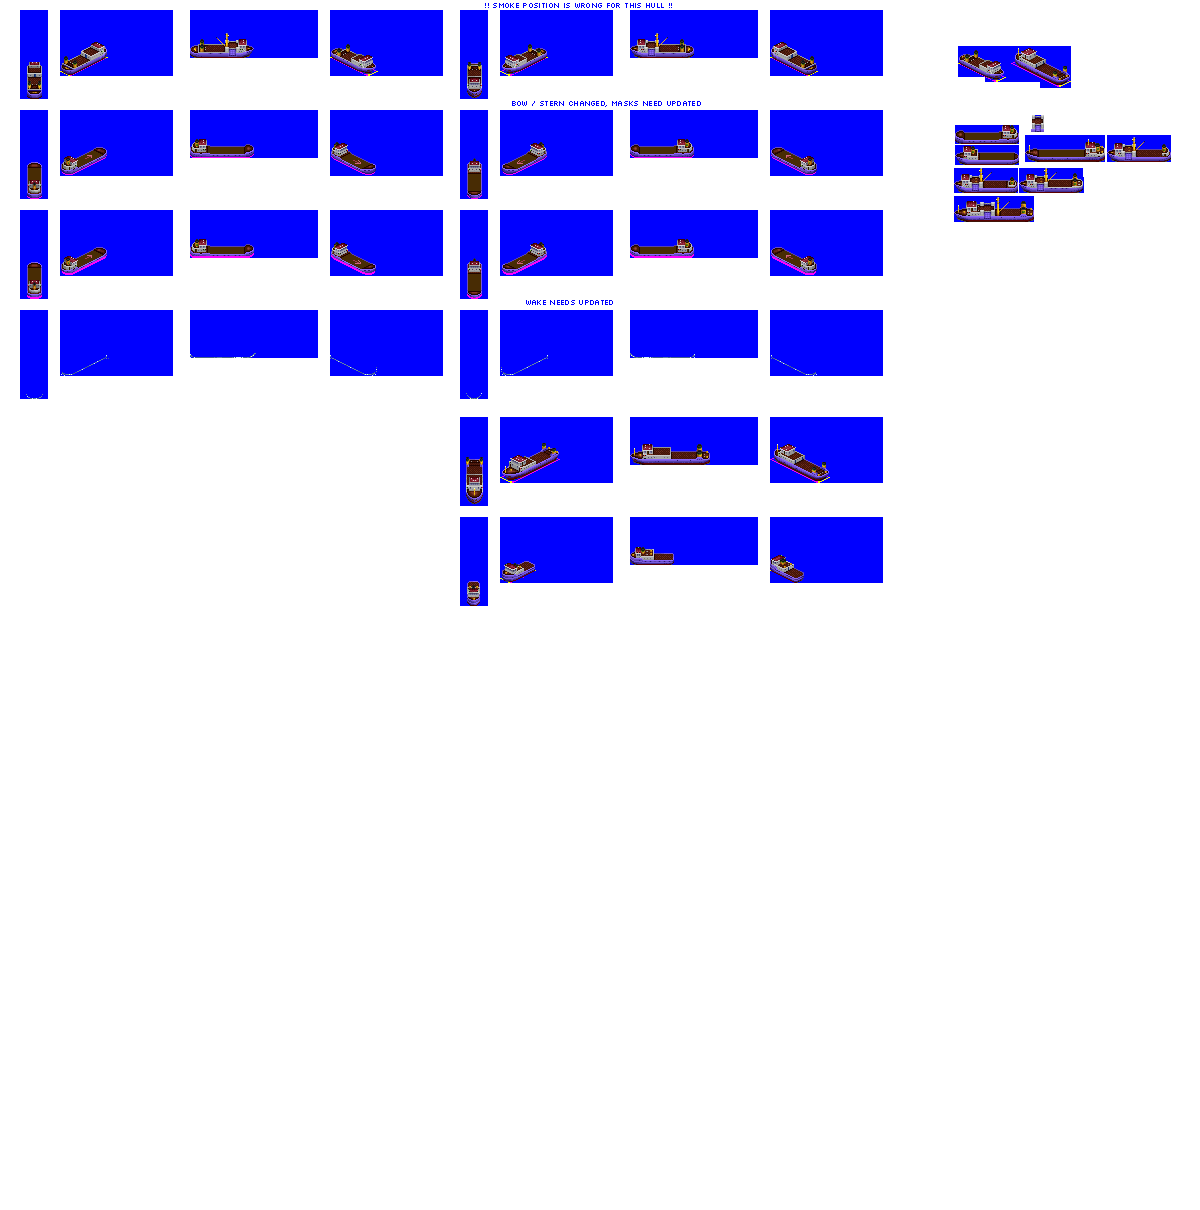
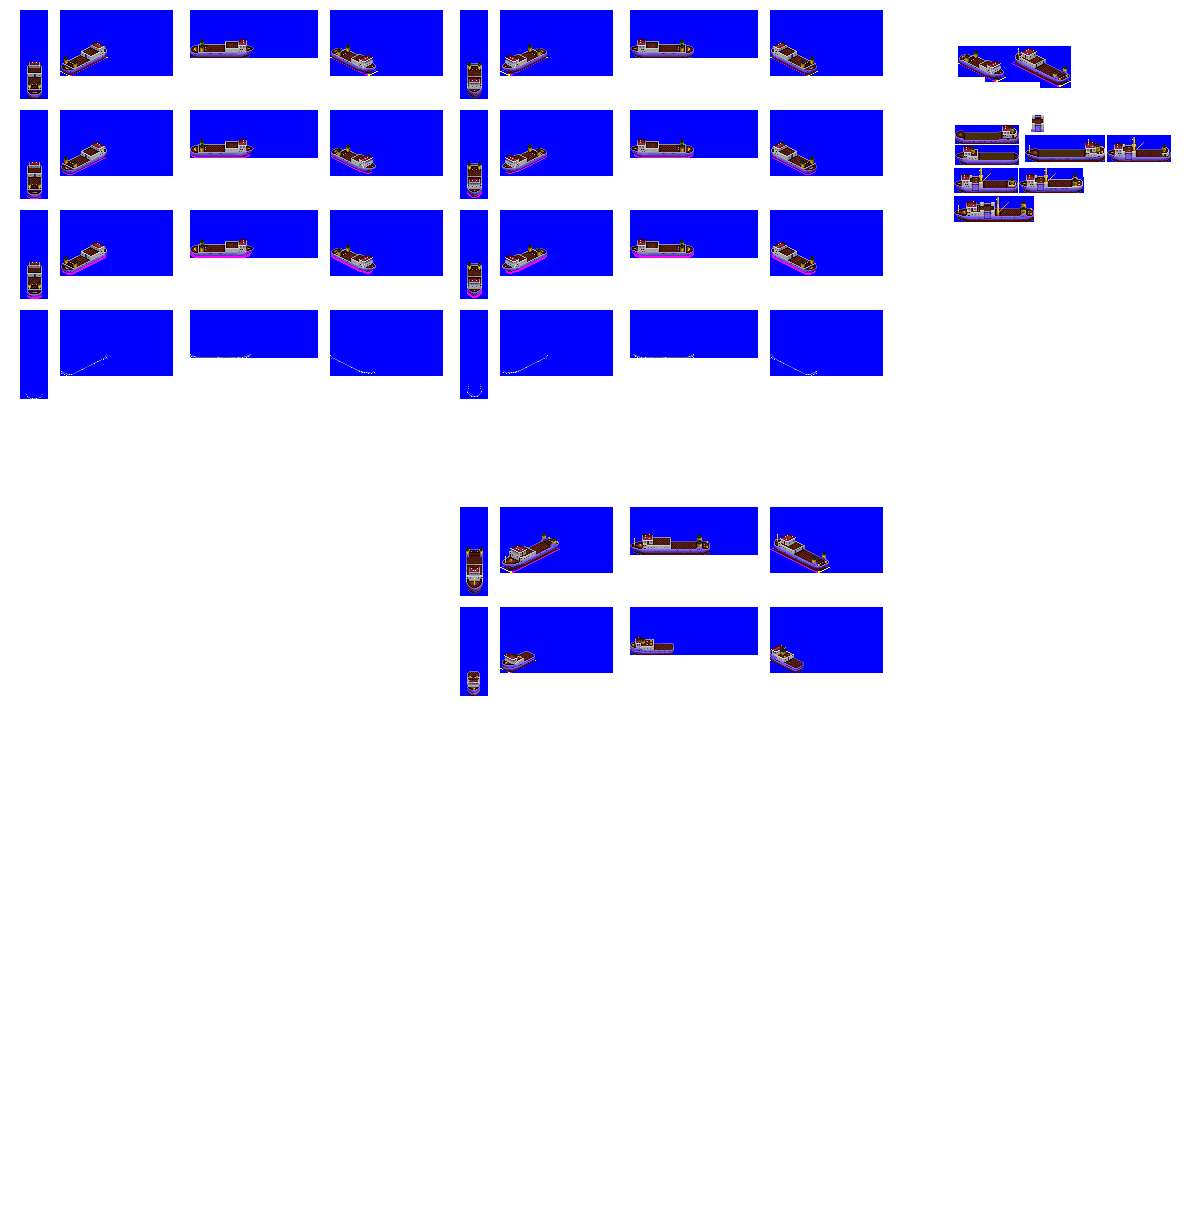
Change: sprites complete for 64px house forward gen 3 hull

diff --git a/src/hulls.py b/src/hulls.py
@@ -82,7 +82,7 @@ class ShipHouseForward64px(Hull):
         self.hull_type = "ship"
         self.house_position = "forward"
         self.load_state_y_offsets = [("empty", -1), ("part_load", 0), ("full_load", 1)]
-        self.effects_positions = [(11, 0, 24)]
+        self.effects_positions = [(6, 2, 14), (6, -2, 14)]
 
 
 class ShipHouseForward80px(Hull):
